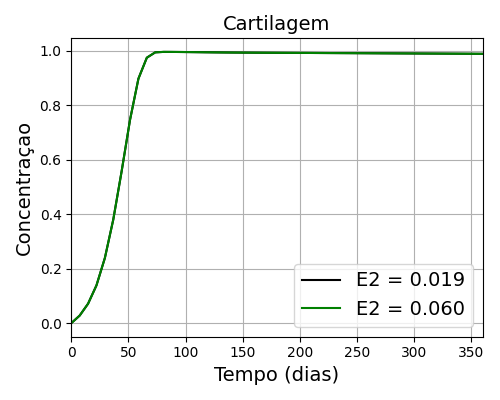
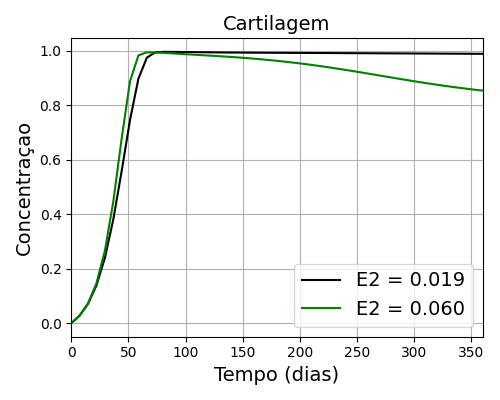
Organização do código

diff --git a/bone_estradiol.py b/bone_estradiol.py
@@ -56,7 +56,7 @@ def feval(funcName, *args):
 
 # Define the function that contains the equations of the system to be evaluated.
 
-def bonerepair(y,t):
+def bonerepair(y,t,E2_max):
     # Parameters of the system of ten equations described above:
 
     ke_1 = 3.0
@@ -98,7 +98,7 @@ def bonerepair(y,t):
     kpb = 0.2202
     apb = 10.0
     ae2 = 0.5 #estimado - artigo
-    E2max = 0.019 # artigo
+    E2max = E2_max#0.019 # artigo
     de2 = 0.03  #artigo
 
 
@@ -190,108 +190,23 @@ Cm = 1000.0 #condicoes normais
 Cb = 0.0 #1.8*10**6
 Mc = 0.0
 Mb = 0.0
-E2 = 0.019
+E2 = 0.060
 
 
 yinit = np.array([D, Mo, M1, M2, C1, C2, Cm, Cb, Mc, Mb, E2])
 
-
-
-"""Call odeint, passing the function name as a parameter, along with the initial conditions and the time step, to obtain the result."""
-
-ys = odeint(bonerepair, yinit, t)
-
-"""Prepare the results for visualization by separating each variable into its own vector."""
+# E2_max no valor maximo primeiro
+ys = odeint(bonerepair, yinit, t, args=(E2,))
 
 #D, Mo, M1, M2, C1, C2, Cm, Cb, Mc, Mb, E2
-
-ys1 = ys[:,0]
-ys2 = ys[:,1]
-ys3 = ys[:,2]
-ys4 = ys[:,3]
-ys5 = ys[:,4]
-ys6 = ys[:,5]
-ys7 = ys[:,6]
-ys8 = ys[:,7]
-ys9 = ys[:,8]
-ys10 = ys[:,9]
-ys11 = ys[:,10]
-
-ys60 = ys11 # estradiol E2 = 0.06
-ys60osso = ys10
-ys60cart = ys9
-ys60c2 = ys6
-
-"""Let's see two ways to display the results. We can plot all variables on the same graph as shown below:"""
-
 # salva figuras
 pp.plots(t,days,ys)
 
-ys = odeint(bonerepair, yinit, t)
+#Atualiza condicao inicial do E2 para rodar a segunda vez
+E2 = 0.019
+yinit = np.array([D, Mo, M1, M2, C1, C2, Cm, Cb, Mc, Mb, E2])
 
-ys19 = ys[:,10] # estradiol E2 = 0.019
-ys19osso = ys[:,9]
-ys19cart = ys[:,8]
-ys19c2 = ys[:,5]
+# E2_max com o valor minimo na segunda chamada
+ys_min = odeint(bonerepair, yinit, t, args=(E2,))
 
-#ys60 = ys11
-#ys60osso = ys10
-#ys60cart = ys9
-#ys60c2 = ys6
-
-fig, ax = plt.subplots(figsize=(5, 4), tight_layout=True)
-ax.plot(t, ys19, 'k', t, ys60, 'g')
-#ax.xlim(0,days)
-ax.legend(('E2 = 0.019', 'E2 = 0.060'), fontsize=14) #trocar
-ax.set_title('Estradiol', fontsize=14)
-ax.set_xlabel('Tempo (dias)', fontsize=14)
-ax.set_ylabel('Concentraçao', fontsize=14)
-ax.set_xlim(0,days)
-plt.grid(True)
-
-
-plt.tight_layout()
-
-#ys19osso = ys10
-
-fig, ax = plt.subplots(figsize=(5, 4), tight_layout=True)
-ax.plot(t, ys19osso, 'k', t, ys60osso, 'g')
-ax.legend(('E2 = 0.019', 'E2 = 0.060'), fontsize=14) #trocar
-ax.set_title('Osso', fontsize=14)
-ax.set_xlabel('Tempo (dias)', fontsize=14)
-ax.set_ylabel('Concentraçao', fontsize=14)
-ax.set_xlim(0,days)
-
-plt.grid(True)
-
-
-plt.tight_layout()
-
-#ys19c2 = ys6
-
-fig, ax = plt.subplots(figsize=(5, 4), tight_layout=True)
-ax.plot(t, ys19c2, 'k', t, ys60c2, 'g')
-ax.legend(('E2 = 0.019', 'E2 = 0.060'), fontsize=14) #trocar
-ax.set_title('IL-10', fontsize=14)
-ax.set_xlabel('Tempo (dias)', fontsize=14)
-ax.set_ylabel('Concentraçao', fontsize=14)
-ax.set_xlim(0,days)
-plt.grid(True)
-
-
-plt.tight_layout()
-
-#ys19osso = ys10
-
-fig, ax = plt.subplots(figsize=(5, 4), tight_layout=True)
-ax.plot(t, ys19cart, 'k', t, ys60cart, 'g')
-ax.legend(('E2 = 0.019', 'E2 = 0.060'), fontsize=14) #trocar
-ax.set_title('Cartilagem', fontsize=14)
-ax.set_xlabel('Tempo (dias)', fontsize=14)
-ax.set_ylabel('Concentraçao', fontsize=14)
-ax.set_xlim(0,days)
-plt.grid(True)
-
-plt.savefig('Cartilagem_E2.png')
-
-plt.tight_layout()
+pp.plots_estradiol(t,days,ys, ys_min)

diff --git a/post_processing.py b/post_processing.py
@@ -13,7 +13,6 @@ def plots(t,days,ys):
     ys8 = ys[:,7]
     ys9 = ys[:,8]
     ys10 = ys[:,9]
-    ys11 = ys[:,10]
     
     plt.figure()
 
@@ -105,3 +104,71 @@ def plots(t,days,ys):
     # Display the figure.
     plt.savefig('osso.png')
     plt.show()
+    
+    
+def plots_estradiol(t,days,ys, ys_min):
+    # desacopla os resultados
+    ys60 = ys[:,10] # estradiol E2 = 0.06
+    ys60osso = ys[:,9]
+    ys60cart = ys[:,8]
+    ys60c2 = ys[:,5]
+
+    ys19 = ys_min[:,10] # estradiol E2 = 0.019
+    ys19osso = ys_min[:,9]
+    ys19cart = ys_min[:,8]
+    ys19c2 = ys_min[:,5]
+
+    fig, ax = plt.subplots(figsize=(5, 4), tight_layout=True)
+    ax.plot(t, ys19, 'k', t, ys60, 'g')
+    #ax.xlim(0,days)
+    ax.legend(('E2 = 0.019', 'E2 = 0.060'), fontsize=14) #trocar
+    ax.set_title('Estradiol', fontsize=14)
+    ax.set_xlabel('Tempo (dias)', fontsize=14)
+    ax.set_ylabel('Concentraçao', fontsize=14)
+    ax.set_xlim(0,days)
+    plt.grid(True)
+    plt.tight_layout()
+    plt.savefig('E2.png')
+
+    #ys19osso = ys10
+
+    fig, ax = plt.subplots(figsize=(5, 4), tight_layout=True)
+    ax.plot(t, ys19osso, 'k', t, ys60osso, 'g')
+    ax.legend(('E2 = 0.019', 'E2 = 0.060'), fontsize=14) #trocar
+    ax.set_title('Osso', fontsize=14)
+    ax.set_xlabel('Tempo (dias)', fontsize=14)
+    ax.set_ylabel('Concentraçao', fontsize=14)
+    ax.set_xlim(0,days)
+
+    plt.grid(True)
+    plt.tight_layout()
+    plt.savefig('Osso_E2.png')
+    #ys19c2 = ys6
+
+    fig, ax = plt.subplots(figsize=(5, 4), tight_layout=True)
+    ax.plot(t, ys19c2, 'k', t, ys60c2, 'g')
+    ax.legend(('E2 = 0.019', 'E2 = 0.060'), fontsize=14) #trocar
+    ax.set_title('IL-10', fontsize=14)
+    ax.set_xlabel('Tempo (dias)', fontsize=14)
+    ax.set_ylabel('Concentraçao', fontsize=14)
+    ax.set_xlim(0,days)
+    plt.grid(True)
+
+    plt.tight_layout()
+    plt.savefig('IL-10_E2.png')
+
+    #ys19osso = ys10
+
+    fig, ax = plt.subplots(figsize=(5, 4), tight_layout=True)
+    ax.plot(t, ys19cart, 'k', t, ys60cart, 'g')
+    ax.legend(('E2 = 0.019', 'E2 = 0.060'), fontsize=14) #trocar
+    ax.set_title('Cartilagem', fontsize=14)
+    ax.set_xlabel('Tempo (dias)', fontsize=14)
+    ax.set_ylabel('Concentraçao', fontsize=14)
+    ax.set_xlim(0,days)
+    plt.grid(True)
+    plt.tight_layout()
+    plt.savefig('Cartilagem_E2.png')
+
+
+
